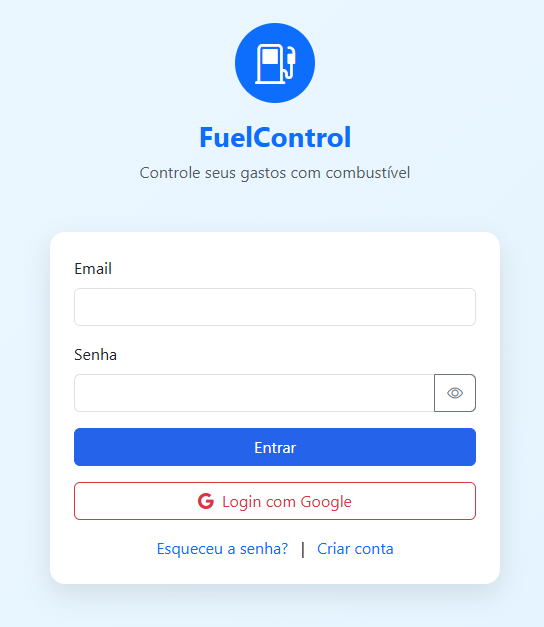
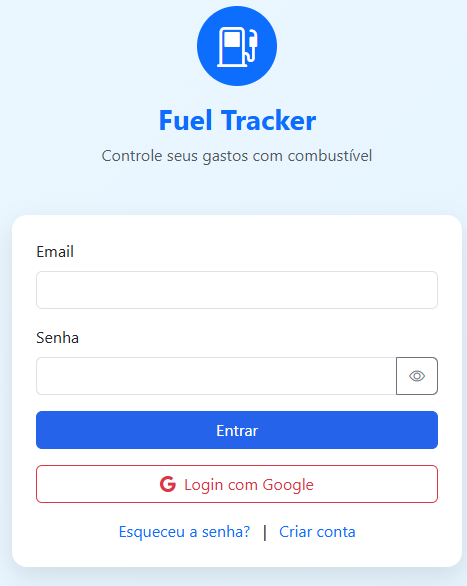
nome do site atualizado

Changed region(s): [[0.03, 0.3686, 0.9893, 0.9829], [0.2099, 0.0, 0.8094, 0.3072]]

diff --git a/index.html b/index.html
@@ -3,7 +3,7 @@
 <head>
     <meta charset="UTF-8">
     <meta name="viewport" content="width=device-width, initial-scale=1.0">
-    <title>FuelControl - Controle de Combustível</title>
+    <title>Fuel Tracker - Controle de Combustível</title>
     <!-- Bootstrap 5 CSS -->
     <link href="https://cdn.jsdelivr.net/npm/bootstrap@5.3.0-alpha1/dist/css/bootstrap.min.css" rel="stylesheet">
     <!-- Bootstrap Icons -->
@@ -34,7 +34,7 @@
                         <i class="bi bi-fuel-pump fs-1"></i>
                     </div>
                 </div>
-                <h1 class="h3 fw-bold text-primary">FuelControl</h1>
+                <h1 class="h3 fw-bold text-primary">Fuel Tracker</h1>
                 <p class="text-muted">Controle seus gastos com combustível</p>
             </div>
             
@@ -81,7 +81,7 @@
         <nav class="navbar navbar-expand-lg navbar-light bg-white shadow-sm">
             <div class="container">
                 <a class="navbar-brand" href="#">
-                    <i class="bi bi-fuel-pump me-2"></i>FuelControl
+                    <i class="bi bi-fuel-pump me-2"></i>Fuel Tracker
                 </a>
                 <div class="d-flex align-items-center">
                     <span class="me-3">Olá, <span id="user-name">Usuário</span></span>
